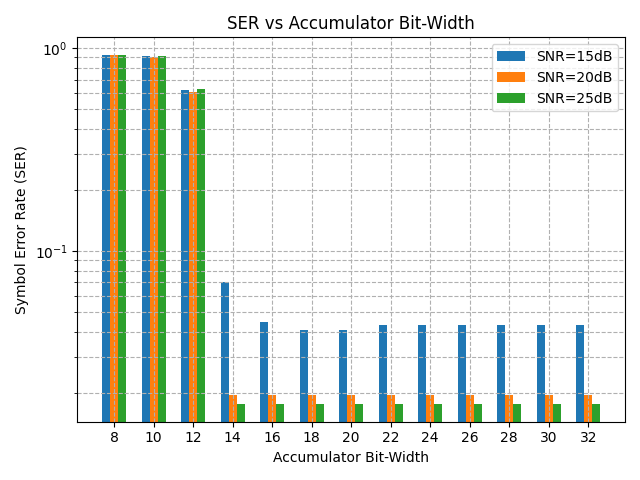
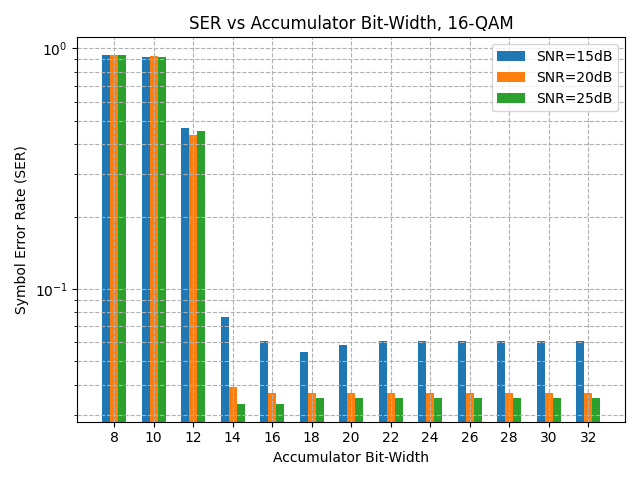
correct fxp unwrapping

diff --git a/python/iib_project/carrier_recovery.py b/python/iib_project/carrier_recovery.py
@@ -7,7 +7,7 @@ class Carrier_Recovery:
         self.symbol_rate = symbol_rate * 1e9 # GHz -> Hz
         self.sps = sps
         self.acc_t = Fxp(dtype=f'fxp-s{DW_acc}/{DW_acc-3}-complex') 
-        self.theta_t = Fxp(dtype=f'fxp-s{DW_acc}/{DW_acc-3}') # Account for unwrapping
+        self.theta_t = Fxp(dtype=f'fxp-s{DW_acc}/{DW_acc-4}') 
         self.pilot_interval = pilot_interval
         self.cordic = Cordic(iterations=DW_acc-3, word_length=DW_acc)
 
@@ -107,40 +107,36 @@ class Carrier_Recovery:
             # Fourth-power phase
             z_blocks_4 = Fxp(z_blocks * z_blocks * z_blocks * z_blocks).like(self.acc_t)
             est = Fxp(w_fxp.conj().dot(z_blocks_4)).like(self.acc_t)
-            phi4 = self.cordic.complex_phase(est)
+            phi4 = self.cordic.complex_phase(est) # wrapped to [-pi, pi]
 
             # Only use every 'step' samples to reduce complexity
             phi4 = np.repeat(phi4[::step], step)[:K]
-    
+
+            #compute phase difference between samples
+            phi4_diff = Fxp(np.ediff1d(phi4)).like(self.theta_t)
+            if phi4_diff.status['overflow']:
+                print("Warning: Overflow detected in phase difference computation.")
+
+            # unwrap phase differences
+            phi4_diff = np.unwrap(phi4_diff.get_val())
+
+            phi4_corr = np.zeros_like(phi4)
+            # accumulate unwrapped differences
+            for i in range(1, len(phi4)):
+                corr = phi4_corr[i] + phi4_diff[i-1]
+                # wrap back to [-pi, pi]
+                if corr > np.pi:
+                    corr -= 2 * np.pi
+                elif corr < -np.pi:
+                    corr += 2 * np.pi
+                phi4_corr[i] = corr
+            phi4_corr = Fxp(phi4_corr).like(self.theta_t)
+            if phi4_corr.status['overflow']:
+                print("Warning: Overflow detected in phase unwrapping.")
+
             # Phase estimate
-            theta = Fxp(phi4 / 4 - np.pi / 4).like(self.theta_t)
-    
-            # Phase ambiguity and cycle slip correction with pilots
-            current_amb = None
+            theta = Fxp(phi4_corr / 4 - np.pi / 4).like(self.theta_t)
 
-            #for i in range(P):
-             #   idx = i * self.pilot_interval
-              #  if idx >= K:
-               #     break
-    
-                #theta_est = theta[idx]
-                #theta_ref = Fxp(np.angle(x[pol, idx]) - pilots[pol][i]).like(self.theta_t)
-                #k_amb = int(np.round((theta_ref - theta_est) / (np.pi / 2))) 
-
-                #if current_amb is None:
-                    #theta += Fxp(k_amb * np.pi/2).like(self.theta_t)
-                    #current_amb = k_amb
-                #elif k_amb != current_amb: #cycle slip has occurred
-                 #   delta = Fxp((k_amb - current_amb) * np.pi/2).like(self.theta_t)
-                  #  theta[idx:] += delta
-                   # current_amb = k_amb
-
-            #wrap to [-pi, pi]
-           # theta_np = theta.get_val()
-            #theta_np = (theta_np + np.pi) % (2 * np.pi) - np.pi
-            #theta = Fxp(theta_np).like(self.theta_t)
-            
-            # Apply correction using CORDIC
             y[pol, :] = self.cordic.complex_rotate(x[pol, :], -theta)
 
         return Fxp(y).like(self.acc_t)

diff --git a/results/cd_equalizer/results.py b/results/cd_equalizer/results.py
@@ -21,7 +21,7 @@ def test_fft_width():
     sps = 1
     SNR = 20 
 
-    M = 16 
+    M = 64
 
     
     modulator = Modulator(M, 1)
@@ -29,6 +29,7 @@ def test_fft_width():
     demodulator = Demodulator(M, 1)
 
     x = modulator.modulate(num_symbols)
+    print(x.shape)
 
     ser_results = {}
     bits_results = {}
@@ -38,8 +39,8 @@ def test_fft_width():
         x_noisy = channel.add_AWGN(x.reshape(1,-1))
         x_noisy = channel.add_chromatic_dispersion(x_noisy)[0]
         # scale so that 95% of values in range +- 1
-        x_noisy = x_noisy / np.percentile(np.abs(x_noisy), 95)
-        x_noisy = x_noisy[0] TODO: clean up cd_equalizer to handle multiple pols
+        scaling = np.percentile(np.abs(x_noisy), 95)
+        x_noisy = x_noisy / scaling
 
         ser_vals = []
 
@@ -53,11 +54,16 @@ def test_fft_width():
             y_eq = cd_equalizer.equalize(x_fxp)
 
             y_eq_np = np.array([val.get_val() for val in y_eq])
+            y_eq_np = np.reshape(y_eq_np, (1, -1))
             y_decided = demodulator.decide(y_eq_np)
-            ser = np.sum(y_decided != x) / len(x)
+            ser = np.sum(y_decided != x) / len(x[0])
             ser_vals.append(ser)
 
         ser_results[SNR] = ser_vals
+
+        #print scaling factor
+        print(f"SNR={SNR}dB, Scaling factor to fit 95% of samples in +-1: {scaling:.4f}")
+
     
     # plot results showing accumulator width and SNR on bar chart
     plt.figure()
@@ -173,6 +179,5 @@ def bits_per_symbol(N_fft, N_cd, DW):
     return total_bits
 
 
-
 if __name__ == "__main__":
-    test_io_width()
+    test_fft_width()
